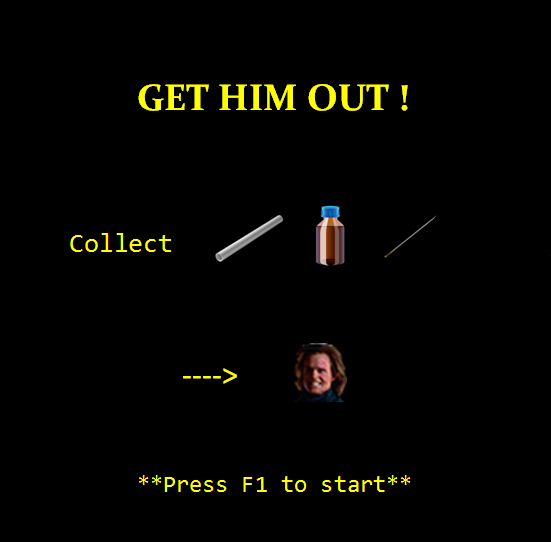
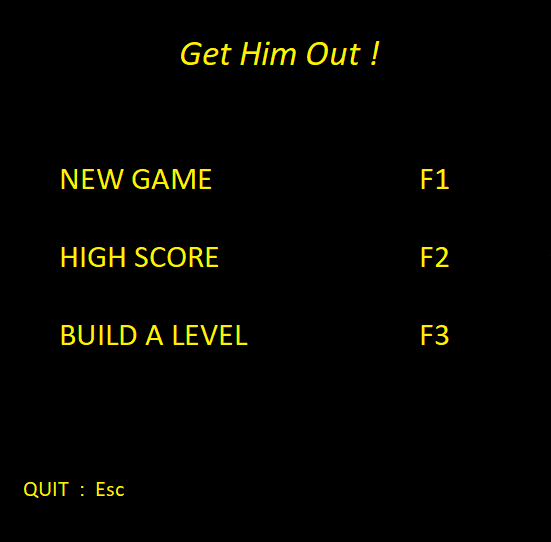
Initialization of P11 : adding a proper menu

diff --git a/gethimout.py b/gethimout.py
@@ -97,29 +97,164 @@ tube = pg.transform.scale(tube, (int((WIDTH + 10)/SIDE), int(HEIGHT/SIDE)))
 youwin = pg.transform.scale(youwin, (WIDTH, HEIGHT))
 youlose = pg.transform.scale(youlose, (WIDTH, HEIGHT))
 
+#Load menu image
 menu = pg.image.load(image_menu).convert()
 menu = pg.transform.scale(menu, (WIDTH, HEIGHT))
+#Load start image
+options = pg.image.load(image_options).convert()
+options = pg.transform.scale(options, (WIDTH, HEIGHT))
+#Load score image
+scores = pg.image.load(image_scores).convert()
+scores = pg.transform.scale(scores, (WIDTH, HEIGHT))
+#Load build image
+build = pg.image.load(image_build).convert()
+build = pg.transform.scale(build, (WIDTH, HEIGHT))
+
 
 #Here is the game loop :
 
 keep_open = 1
 keep_menu = 1
+keep_start, keep_scores, keep_build = 0, 0, 0
 MacGyver.display_moves(macg, needle, ether, tube)
 MacGyver.state = "alive"
 
 current_window.blit(menu, (0, 0))
-pg.display.flip()
+#pg.display.flip()
+
+print(keep_menu)
+print(keep_open)
+print(keep_start)
+print(keep_scores)
+print(keep_build)
 
 #Loop for the menu
 while keep_menu:
     pg.time.Clock().tick(30)
+    pg.display.flip()
     for event in pg.event.get():
         if event.type == QUIT:
             keep_menu = 0
             keep_open = 0
+            print('quit from ')
         if event.type == KEYDOWN:
-            if event.key == K_F1:
+            if event.key == K_F5:
                 keep_menu = 0
+                keep_open = 0
+                print('quit')
+            # Start a new game
+            elif event.key == K_F1:
+                keep_start = 1
+                #keep_menu = 0
+
+                current_window.blit(options, (0, 0))
+                pg.display.flip()
+                pg.event.clear()
+                while keep_start:
+                    pg.time.Clock().tick(30)
+                    for event in pg.event.get():
+                        if event.type == QUIT:
+                            keep_start = 0
+                            keep_menu = 0
+                            keep_open = 0
+                            print('quit from start')
+
+                        elif event.key == K_F5:
+                            keep_start = 0
+                            current_window.blit(menu, (0, 0))
+                            pg.display.flip()
+                            print('back to menu')
+                        print(keep_menu)
+                        print(keep_open)
+                        print(keep_start)
+                        print(keep_scores)
+                        print(keep_build)
+
+            elif event.key == K_F2:
+                keep_scores = 1
+                current_window.blit(scores, (0, 0))
+                pg.display.flip()
+                pg.event.clear()
+                while keep_scores:
+                    pg.time.Clock().tick(30)
+                    for event in pg.event.get():
+                        if event.type == QUIT:
+                            keep_scores = 0
+                            keep_menu = 0
+                            keep_open = 0
+                            print('quit from start')
+
+                        elif event.key == K_F5:
+                            keep_scores = 0
+                            current_window.blit(menu, (0, 0))
+                            pg.display.flip()
+                            print('back to menu')
+                        print(keep_menu)
+                        print(keep_open)
+                        print(keep_start)
+                        print(keep_scores)
+                        print(keep_build)
+            elif event.key == K_F3:
+                keep_build = 1
+                keep_menu = 0
+                current_window.blit(build, (0, 0))
+                pg.display.flip()
+                pg.event.clear()
+                while keep_build:
+                    pg.time.Clock().tick(30)
+                    for event in pg.event.get():
+                        if event.type == QUIT:
+                            keep_build = 0
+                            keep_menu = 0
+                            keep_open = 0
+                            print('quit from start')
+
+                        elif event.key == K_F5:
+                            keep_build = 0
+                            current_window.blit(menu, (0, 0))
+                            pg.display.flip()
+                            print('back to menu')
+                        print(keep_menu)
+                        print(keep_open)
+                        print(keep_start)
+                        print(keep_scores)
+                        print(keep_build)
+
+"""
+print('Option chosen')
+print(keep_menu)
+print(keep_open)
+print(keep_start)
+print(keep_scores)
+print(keep_build)
+
+if keep_start:
+    keep_start = 1
+    current_window.blit(options, (0, 0))
+    pg.display.flip()
+
+while keep_start:
+    pg.time.Clock().tick(30)
+    for event in pg.event.get():
+        if event.type == QUIT:
+            keep_start = 0
+            keep_menu = 0
+            keep_open = 0
+            print('quit from start')
+
+        elif event.type == KEYDOWN:
+            if event.key == K_F5:
+                keep_start = 0
+                current_window.blit(menu, (0, 0))
+                pg.display.flip()
+                print('back to menu')
+
+print(keep_menu)
+print(keep_open)
+print(keep_start)
+print(keep_scores)
+print(keep_build)
+
 
 if keep_open:
     display_level(current_window, current_level)
@@ -151,3 +286,4 @@ while keep_open:
         elif MacGyver.state == "won":
             current_window.blit(youwin, (0, 0))
             pg.display.flip()
+"""

diff --git a/constants.py b/constants.py
@@ -22,3 +22,6 @@ image_tube = "images/tube.png"
 image_youwin = "images/youwin.png"
 image_youlose = "images/youlose.jpg"
 image_menu = "images/menu.png"
+image_options = "images/options.png"
+image_scores = "images/scores.png"
+image_build = "images/start.png"
